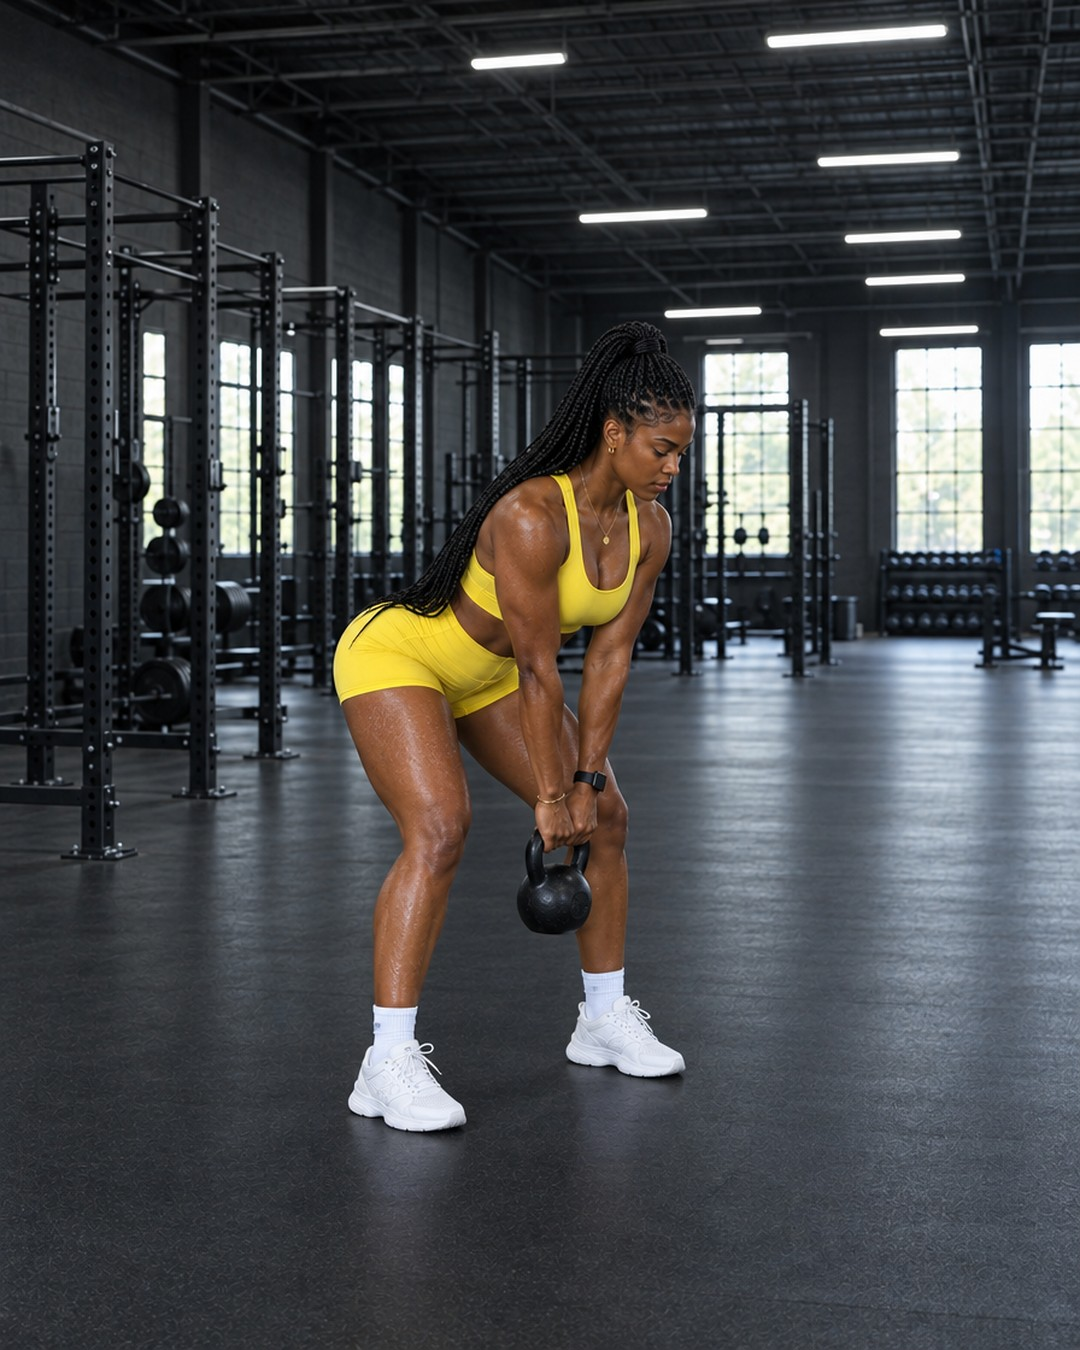
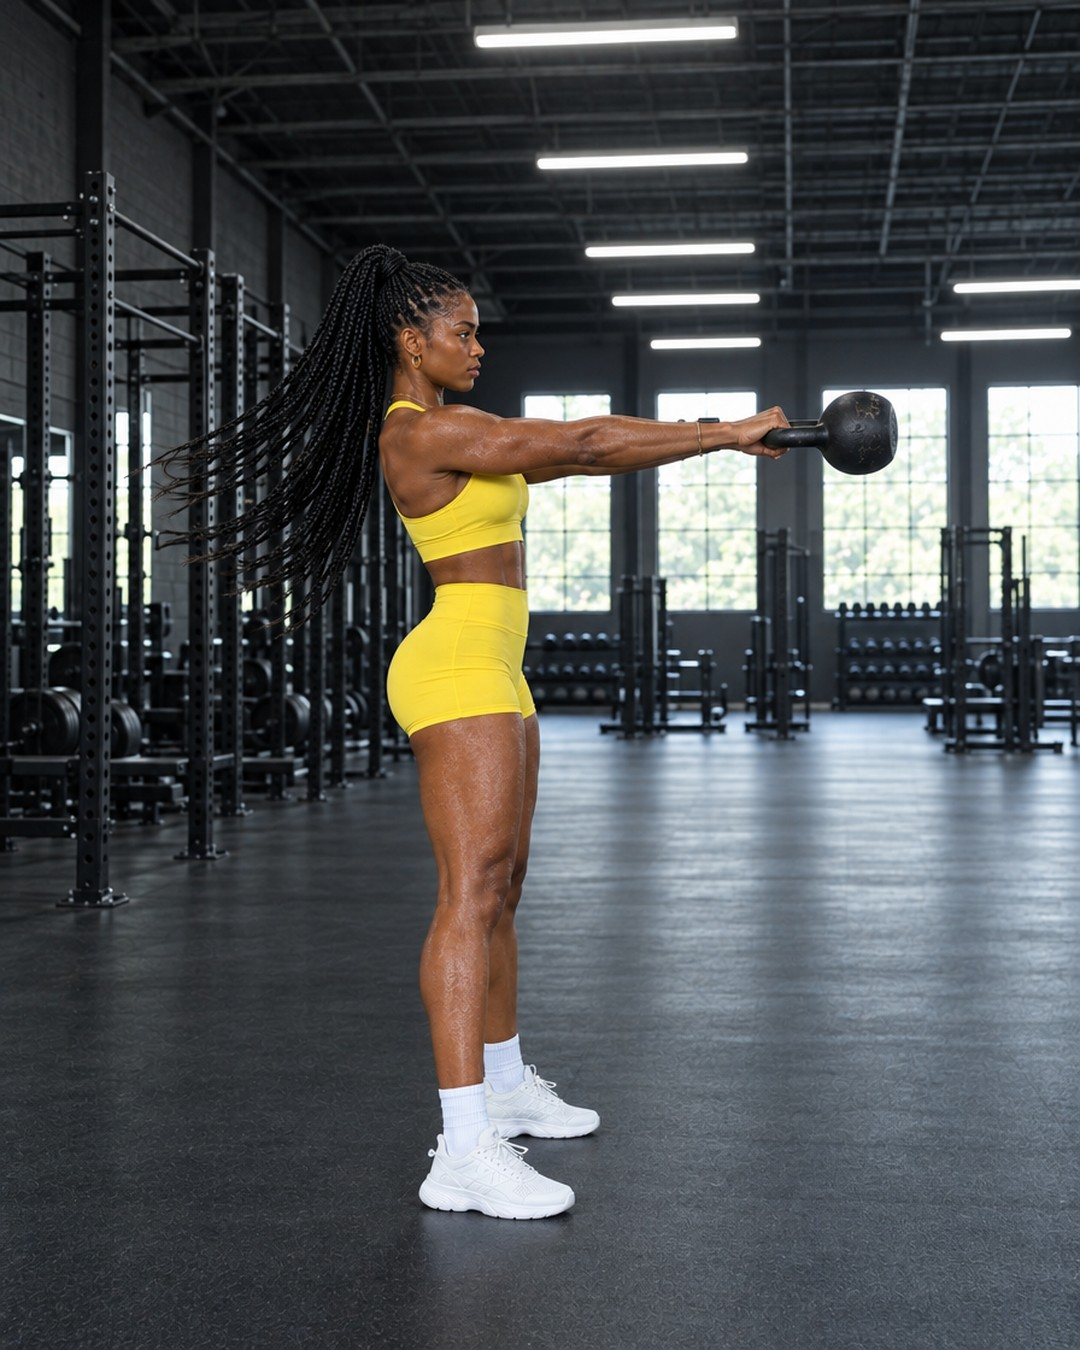
V3: Dumbbell Snatch thumb uses the mid-pull image (F091); fix h302 kettlebell swing hero file
Claude-Session: https://claude.ai/code/session_01Y7y8gEfezQiPQ2kCqATRmJ

diff --git a/frontend/utils/cartHero.ts b/frontend/utils/cartHero.ts
@@ -176,7 +176,7 @@ export const V3_CART_HERO_ALTS: readonly V3HeroPhoto[] = [
   { uri: 'https://res.cloudinary.com/dfsygar5c/image/upload/v1790988350/mood/v3/cart_heroes/alts/athletic_speed_agility__h214_lena_wall_drive.jpg', archetypes: ['athletic_speed_agility'] }, // h214_lena_wall_drive
   { uri: 'https://res.cloudinary.com/dfsygar5c/image/upload/v1790988349/mood/v3/cart_heroes/alts/athletic_full_body__h215_imani_turf_sprint.jpg', archetypes: ['athletic_full_body', 'athletic_speed_agility', 'athletic_power'] }, // h215_imani_turf_sprint
   { uri: 'https://res.cloudinary.com/dfsygar5c/image/upload/v1790998367/mood/v3/cart_heroes/alts/strength_lower_hinge__h301_mateo_barbell_rdl.jpg', archetypes: ['strength_lower_hinge', 'strength_glutes_legs'] }, // h301_mateo_barbell_rdl
-  { uri: 'https://res.cloudinary.com/dfsygar5c/image/upload/v1790998367/mood/v3/cart_heroes/alts/strength_lower_hinge__h302_imani_kb_swing.jpg', archetypes: ['strength_lower_hinge', 'strength_full_body'] }, // h302_imani_kb_swing
+  { uri: 'https://res.cloudinary.com/dfsygar5c/image/upload/v1790999938/mood/v3/cart_heroes/alts/strength_lower_hinge__h302_imani_kb_swing.jpg', archetypes: ['strength_lower_hinge', 'strength_full_body'] }, // h302_imani_kb_swing
   { uri: 'https://res.cloudinary.com/dfsygar5c/image/upload/v1790999117/mood/v3/cart_heroes/alts/strength_lower_hinge__h304_julian_kb_sumo_deadlift.jpg', archetypes: ['strength_lower_hinge', 'strength_glutes_legs'] }, // h304_julian_kb_sumo_deadlift
   { uri: 'https://res.cloudinary.com/dfsygar5c/image/upload/v1790965531/mood/v3/cart_heroes/alts/sweat_circuit__s01_mei_jump_rope.jpg', archetypes: ['sweat_circuit', 'sweat_engine', 'sweat_hybrid'] }, // s01_mei_jump_rope
   { uri: 'https://res.cloudinary.com/dfsygar5c/image/upload/v1790965528/mood/v3/cart_heroes/alts/athletic_speed_agility__s02_amara_a_skip.jpg', archetypes: ['athletic_speed_agility', 'athletic_full_body'] }, // s02_amara_a_skip

diff --git a/frontend/utils/v3ExerciseThumbs.ts b/frontend/utils/v3ExerciseThumbs.ts
@@ -102,7 +102,7 @@ export const V3_EXERCISE_THUMBS: Record<string, string> = {
   db_jumping_jack: 'v1790791931', // F088 Dumbbell Lateral-Raise Jacks
   banded_squat_jump: 'v1790791931', // F089 Banded Squat Jump
   db_bench_press: 'v1790791931', // F090 Dumbbell Bench Press
-  db_snatch: 'v1790999786', // F091 Dumbbell Snatch
+  db_snatch: 'v1790999937', // F091 Dumbbell Snatch
   db_step_up: 'v1790791932', // F092 Dumbbell Step-Up
   lateral_lunge: 'v1790791932', // F093 Lateral Lunge
   hang_power_clean: 'v1790791932', // F094 Hang Power Clean
